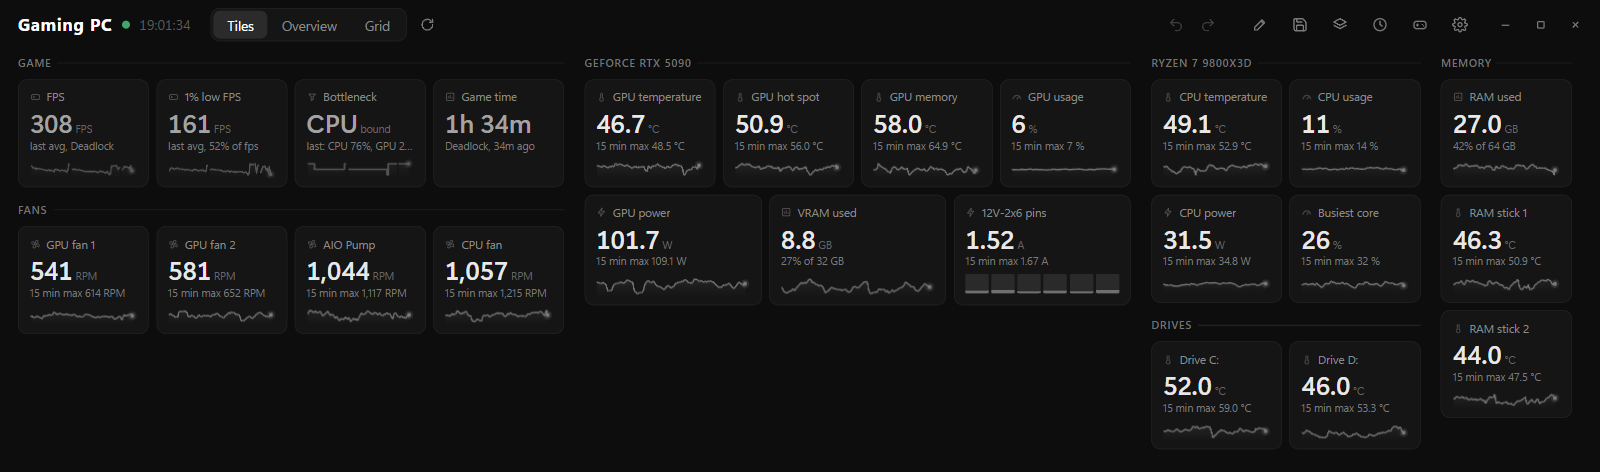
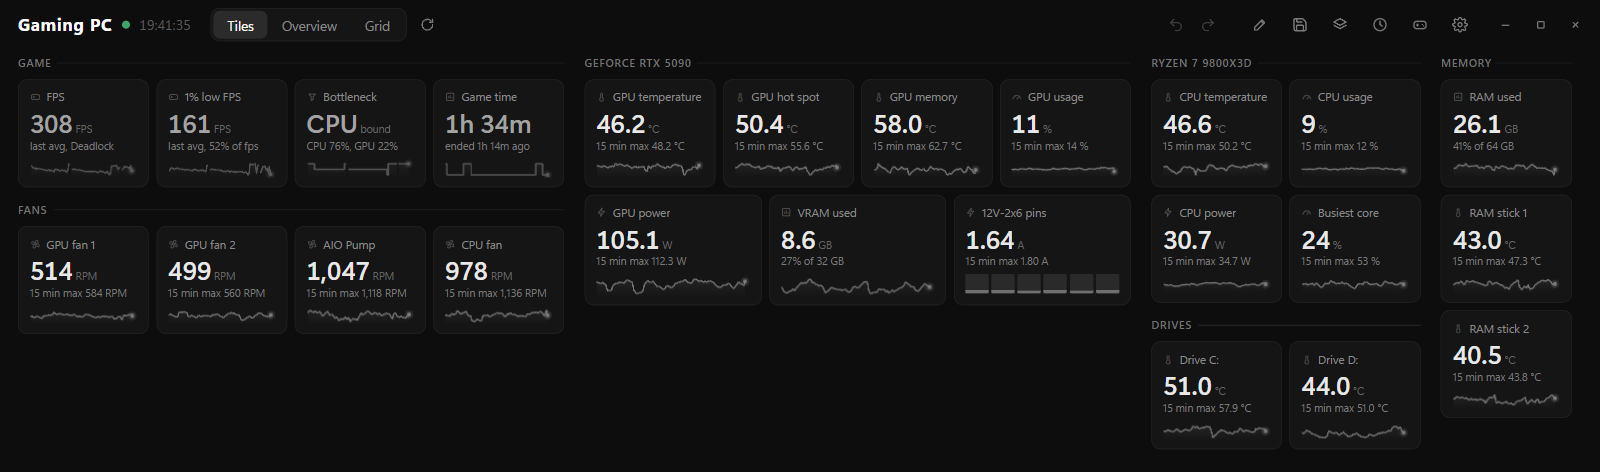
thirty-ninth commit

diff --git a/web/deck.js b/web/deck.js
@@ -218,6 +218,18 @@ function dayPlay(L) {
   for (const d of Array.isArray(L.day) ? L.day : []) if (Array.isArray(d) && d[1] > from) s += d[0] >= from ? d[2] : d[2] * (d[1] - from) / Math.max(1, d[1] - d[0]);
   return s >= 60 ? durTxt(s) + ' in 24 h' : '';
 }
+// (2.1.1, his "no graph under game tile cell" 11-04: no game, Game time's graph is the last 24 h, Yes a minute a session
+// ran, as his dashboard's; one array while the minute and the sessions are the same, so it is drawn once a minute)
+const PLAYDAY = { k: '', lv: null };
+function playDay(L) {
+  const m0 = Math.floor(nowTs / 60) - 1440, day = Array.isArray(L.day) ? L.day.filter(d => Array.isArray(d) && d[1] > d[0]) : [];
+  const k = m0 + '|' + day.map(d => d[0] + '-' + d[1]).join();
+  if (PLAYDAY.k === k) return PLAYDAY.lv;
+  const lv = new Array(1440).fill(0);
+  for (const d of day) for (let m = Math.max(0, Math.floor(d[0] / 60) - m0); m < Math.min(1440, Math.ceil(d[1] / 60) - m0); m++) lv[m] = 1;
+  PLAYDAY.k = k; PLAYDAY.lv = lv;
+  return lv;
+}
 // its calls as a strip over its own minutes (tb: a letter a minute, g gpu, c cpu, f capped), each call's share from
 // its seconds (g, c, f), and the call that held most of them (0 none)
 function lgStrip(L) {
@@ -842,7 +854,7 @@ function evalCell0(cid, c, peek, quick) {
       const b = lgStrip(L);
       out.txt = b.call ? BN[b.call][0] : '--'; out.utxt = b.call ? BN[b.call][1] : ''; out.strip = b; out.past = bnPast(L); out.col = 'past'; out.tag = 'last session';
       out.tsub = b.tot ? bnSplit(b) : 'no calls in ' + L.game; out.sub = b.tot ? 'last session: ' + bnSplit(b) : 'last session: ' + out.tsub;
-      out.tsubS = b.tot ? 'last: ' + bnSplit(b).split(', ').slice(0, 2).join(', ') : 'no calls';   // (a narrow tile: its two biggest, "last" here)
+      out.tsubS = b.tot ? bnSplit(b).split(', ').slice(0, 2).join(', ') : 'no calls';   // (a narrow tile: its two biggest, as a game shows them; "last: " didn't fit, 2.1.1)
       return out;
     }
     const b = bnStrip(), w = BN[v] ? BN[bnNow() || v] : null, lw = !w && feed.game && BN[feed.bnl] ? BN[feed.bnl] : null;
@@ -862,7 +874,8 @@ function evalCell0(cid, c, peek, quick) {
     if (L) {   // (no game: the last session's length, what it was and when it ended; the 24 h's play in the corner)
       const ago = agoShort(Math.max(0, nowTs - L.end)), day = dayPlay(L);
       out.txt = durTxt(L.secs > 0 ? L.secs : L.end - L.start); out.utxt = ''; out.col = 'past'; out.tag = day || 'last session'; out.tagS = 'last session';
-      out.tsub = L.game + ', ended ' + ago; out.tsubS = L.game + ', ' + ago; out.sub = out.tsub + (day ? ', ' + day : '');
+      out.tsub = L.game + ', ended ' + ago; out.tsubS = 'ended ' + ago; out.sub = out.tsub + (day ? ', ' + day : '');   // (a narrow tile: when it ended; "Deadlock, 1h 04m ago" was cut, 2.1.1)
+      out.past = playDay(L); out.pspan = 86400; out.yn = true;   // (its graph: the 24 h, Yes / No a minute, 2.1.1)
       return out;
     }
     out.txt = '--'; out.utxt = ''; out.sub = gtSub(); out.col = 'grey'; return out;
@@ -952,8 +965,9 @@ function evalCell0(cid, c, peek, quick) {
     out.sub = 'avg ' + fmt(gxN(feed.sf[0]), 0) + ' this session';   // (the game's fps: its average this session, 2.1)
   } else if (r && !quick && gfKind(r) === 'low') {
     // (its 1% low: how far under the fps of the same 10 s it sits, and its lowest of the last 15 min)
-    const f = gfPair(r); let lo = Infinity; for (const x of series(r.key, HLEN)) if (x != null && x > 0 && x < lo) lo = x;
-    out.sub = [f > 0 ? Math.min(100, Math.round(v / f * 100)) + '% of the fps' : '', isFinite(lo) ? '15 min low ' + fmt(lo, 0) : ''].filter(Boolean).join(', ');
+    const f = gfPair(r), pc = f > 0 ? Math.min(100, Math.round(v / f * 100)) : null; let lo = Infinity; for (const x of series(r.key, HLEN)) if (x != null && x > 0 && x < lo) lo = x;
+    out.sub = [pc !== null ? pc + '% of the fps' : '', isFinite(lo) ? '15 min low ' + fmt(lo, 0) : ''].filter(Boolean).join(', ');
+    out.tsub = out.sub; out.tsubS = [pc !== null ? pc + '% of fps' : '', isFinite(lo) ? 'low ' + fmt(lo, 0) : ''].filter(Boolean).join(', ');   // (a narrow tile: "14% of the fps, 15 min low 10" was cut, 2.1.1)
   } else if (r && !quick && !isYN(r)) {
     let mx = -Infinity; for (const x of series(r.key, HLEN)) if (x > mx) mx = x;
     out.sub = isFinite(mx) ? '15 min max ' + fl(mx) + (unitOf(r) ? ' ' + unitOf(r) : '') : '';
@@ -1169,7 +1183,9 @@ function pastState(a, c) {
   const minSpan = Math.max(minSpanOf(u), 1, Math.abs(hi) * 0.04);
   if (hi - lo < minSpan) { const mid = (hi + lo) / 2; lo = mid - minSpan / 2; hi = mid + minSpan / 2; if (lo < 0) { hi -= lo; lo = 0; } }
   if (isBneck(c)) { lo = 1; hi = 3; }   // (its calls' levels)
-  return { pts, end: 2 * a.length, span: 2 * a.length, lo, hi, past: true, step: isBneck(c), map: new Map(pts.map(q => [q.s, q])) };
+  const yn = c.key === GTIME;   // (Game time's past is its day of play, Yes / No: 2.1.1)
+  if (yn) { lo = 0; hi = 1; }
+  return { pts, end: 2 * a.length, span: 2 * a.length, lo, hi, past: true, step: isBneck(c) || yn, map: new Map(pts.map(q => [q.s, q])) };
 }
 function lerpState(a, b, p) {
   if (!a || !b) return b;
@@ -4533,7 +4549,7 @@ function drawPrev() {
   }
   const r = c.key ? BYKEY.get(c.key) : null, g = c.gates, gk = gbK(r), det = gbDet(gateLines(g), gk);
   if (HP.e && HP.e.pspan && Array.isArray(HP.e.past)) {   // (an extras reading with a whole day, as its graph in the view)
-    drawBigGraph(hprev.querySelector('canvas'), HP.e.past, det, 0, isYN(r) ? 'Yes/No' : unitOf(r), false, null, HP.e.pspan * 1000, { rev: easeOut(p0) });
+    drawBigGraph(hprev.querySelector('canvas'), HP.e.past, HP.e.yn ? {} : det, 0, isYN(r) || HP.e.yn ? 'Yes/No' : unitOf(r), false, null, HP.e.pspan * 1000, { rev: easeOut(p0) });   // (Game time's day of play: its lines are in minutes, not on it)
     more(); return;
   }
   const sp = gbArr(bucketArr(c, isYN(r)), gk), vals = sp.filter(x => x !== null);   // (a Yes/No reading: each bucket's peak, as its popup)

diff --git a/demo/demo.js b/demo/demo.js
@@ -6,7 +6,7 @@
 (() => {
   'use strict';
   const RELEASES = 'https://github.com/RodrigoArsenioo/hwdeck/releases/latest';
-  const VERSION = '2.1.0';
+  const VERSION = '2.1.1';
   const T0 = Math.floor(Date.now() / 1000);
   const nowS = () => Math.floor(Date.now() / 1000);
   const clamp = (v, lo = 0, hi = 100) => Math.max(lo, Math.min(hi, v));

diff --git a/src/app.cs b/src/app.cs
@@ -31,7 +31,7 @@ using Microsoft.Web.WebView2.WinForms;
 
 static class AppInfo
 {
-    public const string Version = "2.1.0";
+    public const string Version = "2.1.1";
     // log timestamps in one fixed form whatever the PC's region (its time separator or calendar would break the page's
     // parsing), with the UTC offset so durations stay right across a summer time change
     public static string Stamp() { return DateTime.Now.ToString("yyyy-MM-dd HH:mm:sszzz", System.Globalization.CultureInfo.InvariantCulture); }

diff --git a/CHANGELOG.md b/CHANGELOG.md
@@ -1,5 +1,10 @@
 # Changelog
 
+## 2.1.1 (2026-11-04)
+
+- With no game running, Game time has a graph too: the last 24 hours, Yes for each minute a game was on.
+- Captions that were cut in a narrow tile fit now: the Bottleneck's last session (its two biggest shares, without "last:" in front), Game time's last session (when it ended) and the 1% low while a game runs (shorter words, the same numbers).
+
 ## 2.1.0 (2026-11-04)
 
 - The bottleneck tells a cap far more often. HW Deck now gets the game's frames from Windows every quarter of a second instead of every second, and only the two Present events it uses. Before, the newest frames were often over a second old when it judged, so it couldn't tell, and kept its last answer. Measured with a test game on an RTX 5090: fps caps from 60 to 238 read capped 100% of the time (38 to 94% before), with no answers left unsure (up to 62% before). The cost is 0.15% of one CPU core, and the game's frame times didn't change.
